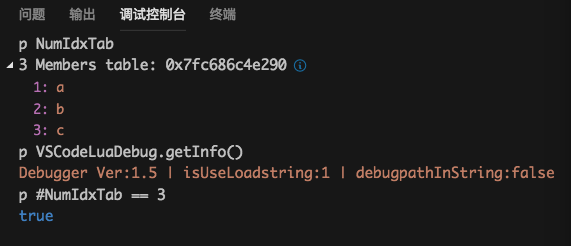
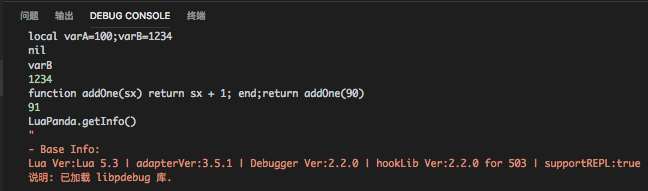
更新说明文档

Changed region(s): [[0.0, 0.3141, 1.0, 0.9686], [0.0, 0.0, 1.0, 0.1047], [0.0, 0.1309, 0.5359, 0.288]]

diff --git a/Docs/Manual/feature-introduction.md b/Docs/Manual/feature-introduction.md
@@ -65,11 +65,11 @@ Win  slua-unreal + lua5.3
 
 ![REPL-watch](../static/feature-introduction/REPL-watch.png)
 
-调试控制台，可以在断点处输入表达式
+调试控制台，可以在断点处输入表达式，执行函数，或者输入变量名观察它的值
 
 ![debug-console](../static/feature-introduction/debug-console.png)
 
-在需要查看的变量或者是表达式前加p , 即可返回输出结果，如上图。
+
 
 ### 支持attach模式
 
